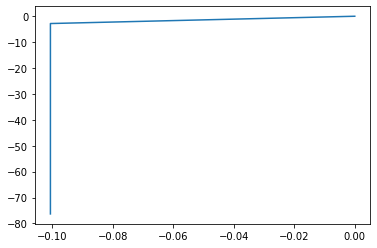
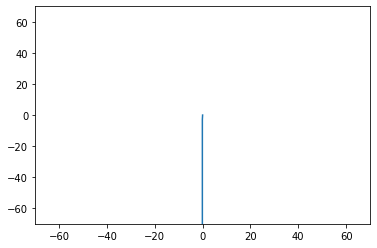
images rapport

diff --git a/EKF/EKF_1.py b/EKF/EKF_1.py
@@ -50,9 +50,9 @@ class EKF():
     def measurement(self, line):
         words = line.split()
         
-        vx = int(words[10])*0.89
-        vy = int(words[9])*0.89
-        vz = int(words[11])*0.41
+        vx = int(words[1])*0.89
+        vy = int(words[0])*0.89
+        vz = int(words[2])*0.41
 
         return np.array([[vx], [vy], [vz]])
         
@@ -88,7 +88,7 @@ class EKF():
         
         #while true()
         
-        with open('EKF/North_3m05_11s69.txt') as f:
+        with open('EKF/odometryNorthWest.txt') as f:
             lines = f.readlines()
             f.close()
 
@@ -121,6 +121,8 @@ class EKF():
             #    break
             
         plt.plot(posX, posY)
+        plt.xlim([-70, 70])
+        plt.ylim([-70, 70])
         #plt.plot(range(counter), posTheta)
         print("posX : ", posX)
         print("posY : ", posY)
